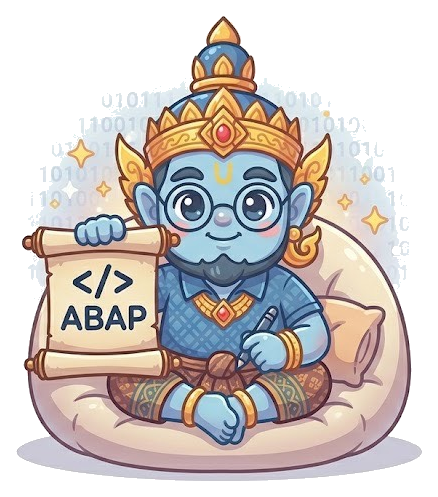
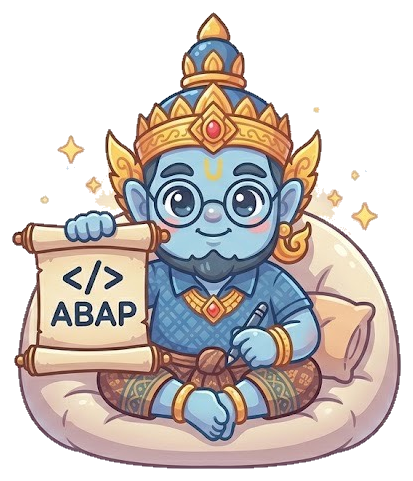
Mascot: remove leftover light-blue glow/binary background + cache-bust
Previous flood-fill only stripped near-pure-white; the soft light-blue
glow and faint binary digits (red channel < 228) survived as a faint
floating box. Reprocess from the original with a wider edge-connected
test (min channel >= 205, plus light-gray low-saturation) + 1px alpha
feather, so only the character/cushion/sparkles remain on transparency.
Bump mascot img src to ?v=2 so browsers don't serve the stale image.

diff --git a/index.html b/index.html
@@ -1867,7 +1867,7 @@
 
         <div class="chat-area" id="chat-area">
             <div class="chat-empty" id="chat-empty">
-                <img class="chat-empty-mascot" src="/assets/mascot.png" alt="PipekAI" />
+                <img class="chat-empty-mascot" src="/assets/mascot.png?v=2" alt="PipekAI" />
                 <div class="chat-empty-title">สวัสดี! PipekAI พร้อมช่วยแล้ว</div>
                 <div class="chat-empty-sub">ถามอะไรเกี่ยวกับ SAP / ABAP ก็ได้ — วาง code, error message, หรือถามทั่วไป แล้ว AI จะวิเคราะห์ให้อัตโนมัติ</div>
             </div>
@@ -2222,7 +2222,7 @@
             // Phase 19.2: welcoming empty state on new chat.
             area.innerHTML = `
         <div class="chat-empty" id="chat-empty">
-            <img class="chat-empty-mascot" src="/assets/mascot.png" alt="PipekAI" />
+            <img class="chat-empty-mascot" src="/assets/mascot.png?v=2" alt="PipekAI" />
             <div class="chat-empty-title">สวัสดี! PipekAI พร้อมช่วยแล้ว</div>
             <div class="chat-empty-sub">ถามอะไรเกี่ยวกับ SAP / ABAP ก็ได้ — วาง code, error message, หรือถามทั่วไป แล้ว AI จะวิเคราะห์ให้อัตโนมัติ</div>
         </div>`;